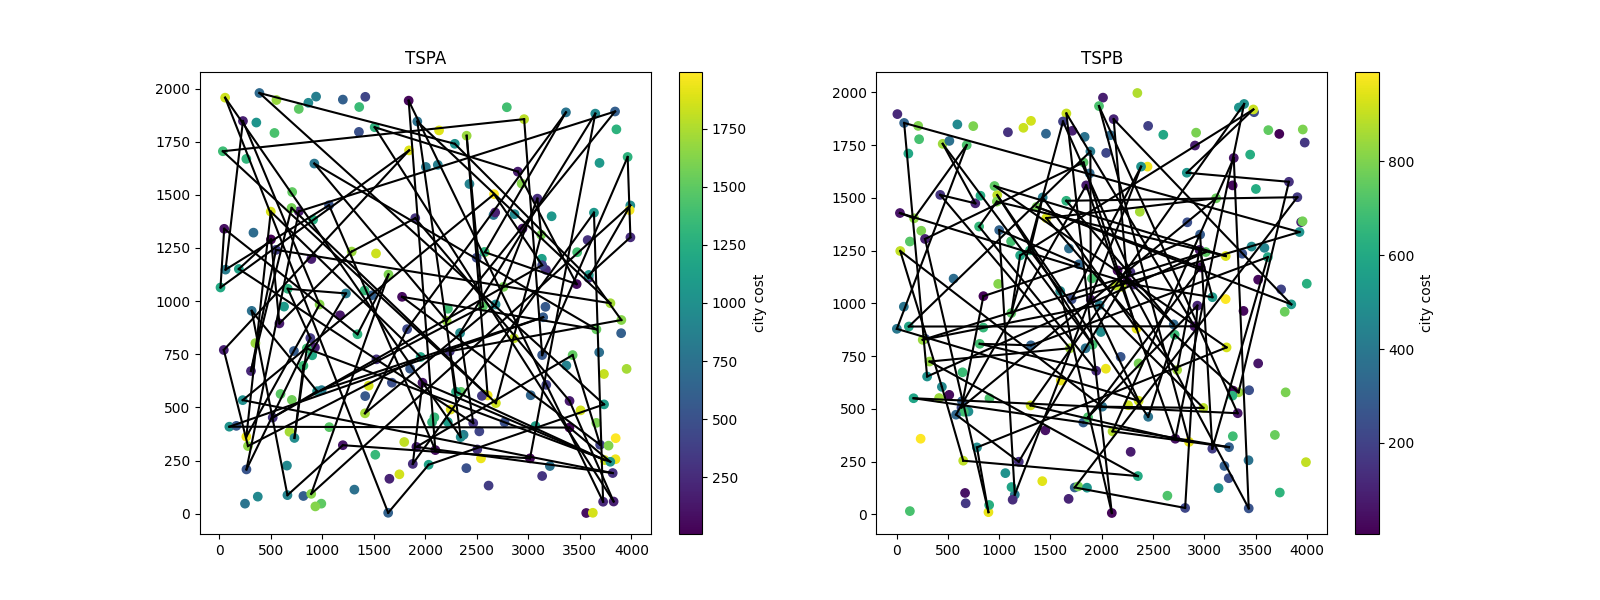
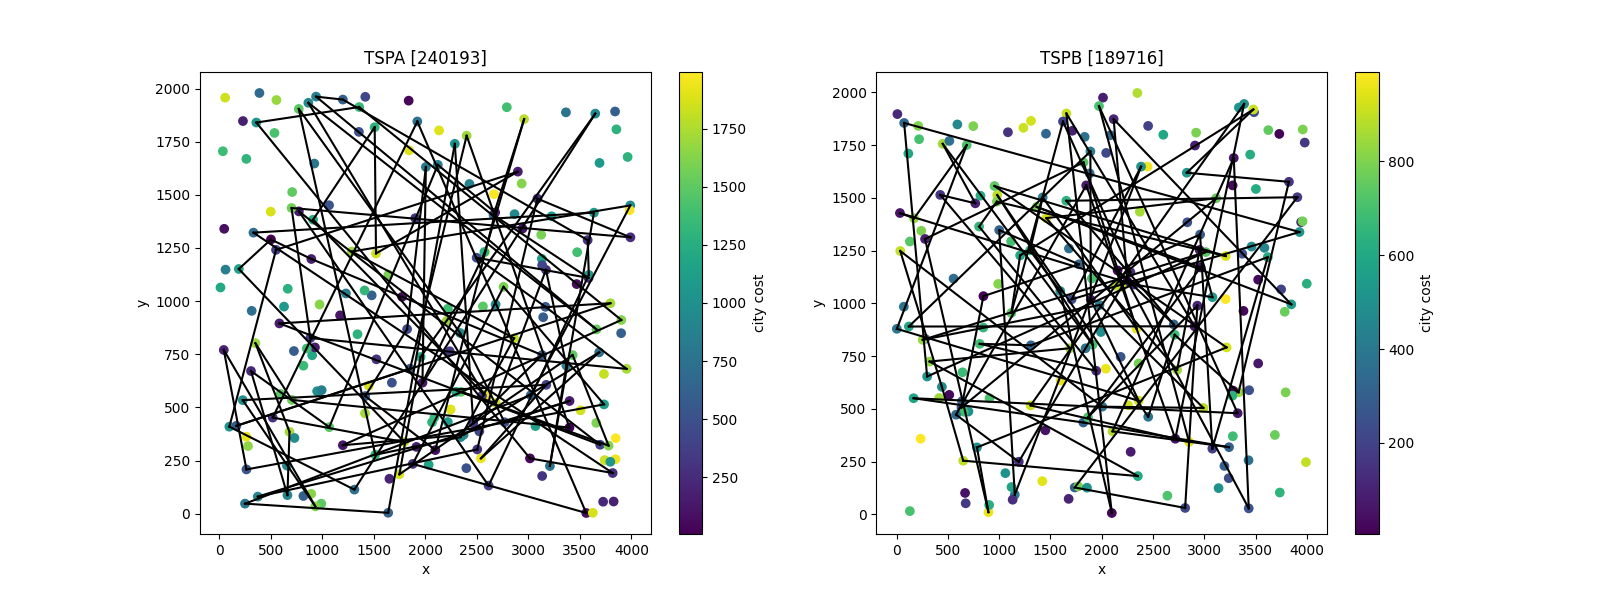
update

Changed region(s): [[0.125, 0.15, 0.4062, 0.87], [0.6562, 0.06, 0.7188, 0.12], [0.2188, 0.06, 0.3125, 0.12]]

diff --git a/visualization.py b/visualization.py
@@ -39,6 +39,18 @@ with open("tspa_greedy_cycle.txt") as f:
 with open("tspb_greedy_cycle.txt") as f:
     tspb_greedy_cycle = f.readlines()
 
+tspa_random_cost = int(tspa_random_solution[0].split(": ")[1].strip())
+tspb_random_cost = int(tspb_random_solution[0].split(": ")[1].strip())
+tspa_greedy_append_cost = int(tspa_greedy_append[0].split(": ")[1].strip())
+tspb_greedy_append_cost = int(tspb_greedy_append[0].split(": ")[1].strip())
+tspa_greedy_at_any_position_cost = int(
+    tspa_greedy_at_any_position[0].split(": ")[1].strip()
+)
+tspb_greedy_at_any_position_cost = int(
+    tspb_greedy_at_any_position[0].split(": ")[1].strip()
+)
+tspa_greedy_cycle_cost = int(tspa_greedy_cycle[0].split(": ")[1].strip())
+tspb_greedy_cycle_cost = int(tspb_greedy_cycle[0].split(": ")[1].strip())
 
 tspa = [
     City(index, *map(float, line.strip().split(";"))) for index, line in enumerate(tspa)
@@ -69,6 +81,8 @@ def plot_cities(tspa, tspb):
     plt.tight_layout()
     plt.subplot(1, 2, 1)
     plt.title("TSPA")
+    plt.xlabel("x")
+    plt.ylabel("y")
     scatter_tspa = plt.scatter(
         [city.x for city in tspa],
         [city.y for city in tspa],
@@ -79,6 +93,8 @@ def plot_cities(tspa, tspb):
 
     plt.subplot(1, 2, 2)
     plt.title("TSPB")
+    plt.xlabel("x")
+    plt.ylabel("y")
     scatter_tspb = plt.scatter(
         [city.x for city in tspb],
         [city.y for city in tspb],
@@ -88,12 +104,14 @@ def plot_cities(tspa, tspb):
     plt.colorbar(scatter_tspb, label="city cost")
 
 
-def plot_solution(tspa, tspa_solution, tspb, tspb_solution):
+def plot_solution(tspa, tspa_cost, tspa_solution, tspb, tspb_cost, tspb_solution):
     plt.figure(figsize=(16, 6))
     plt.tight_layout()
 
     plt.subplot(1, 2, 1)
-    plt.title("TSPA")
+    plt.title(f"TSPA [{tspa_cost}]")
+    plt.xlabel("x")
+    plt.ylabel("y")
     scatter_tspa = plt.scatter(
         [city.x for city in tspa],
         [city.y for city in tspa],
@@ -115,7 +133,9 @@ def plot_solution(tspa, tspa_solution, tspb, tspb_solution):
     )
 
     plt.subplot(1, 2, 2)
-    plt.title("TSPB")
+    plt.title(f"TSPB [{tspb_cost}]")
+    plt.xlabel("x")
+    plt.ylabel("y")
     scatter_tspb = plt.scatter(
         [city.x for city in tspb],
         [city.y for city in tspb],
@@ -140,14 +160,42 @@ def plot_solution(tspa, tspa_solution, tspb, tspb_solution):
 plot_cities(tspa, tspb)
 plt.savefig("cities.png")
 
-plot_solution(tspa, tspa_random_solution, tspb, tspb_random_solution)
+plot_solution(
+    tspa,
+    tspa_random_cost,
+    tspa_random_solution,
+    tspb,
+    tspb_random_cost,
+    tspb_random_solution,
+)
 plt.savefig("random_solution.png")
 
-plot_solution(tspa, tspa_greedy_append, tspb, tspb_greedy_append)
+plot_solution(
+    tspa,
+    tspa_greedy_append_cost,
+    tspa_greedy_append,
+    tspb,
+    tspb_greedy_append_cost,
+    tspb_greedy_append,
+)
 plt.savefig("greedy_append_solution.png")
 
-plot_solution(tspa, tspa_greedy_at_any_position, tspb, tspb_greedy_at_any_position)
+plot_solution(
+    tspa,
+    tspa_greedy_at_any_position_cost,
+    tspa_greedy_at_any_position,
+    tspb,
+    tspb_greedy_at_any_position_cost,
+    tspb_greedy_at_any_position,
+)
 plt.savefig("greedy_at_any_position_solution.png")
 
-plot_solution(tspa, tspa_greedy_cycle, tspb, tspb_greedy_cycle)
+plot_solution(
+    tspa,
+    tspa_greedy_cycle_cost,
+    tspa_greedy_cycle,
+    tspb,
+    tspb_greedy_cycle_cost,
+    tspb_greedy_cycle,
+)
 plt.savefig("greedy_cycle_solution.png")
